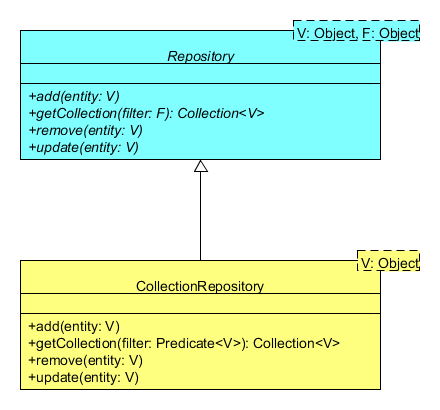
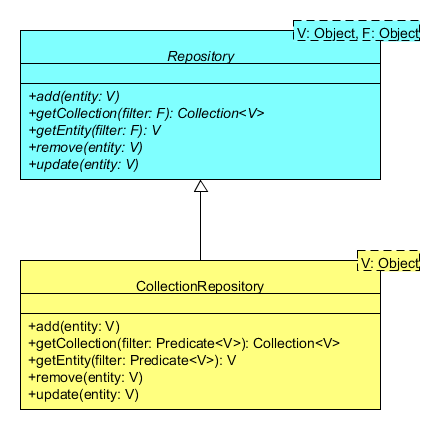
Added a method to the repository for getting a single entity.

Changed region(s): [[0.0295, 0.5561, 0.975, 0.9659], [0.0295, 0.1171, 0.8864, 0.4683], [0.0295, 0.0293, 0.975, 0.1171]]

diff --git a/src/main/java/com/wandrell/pattern/repository/Repository.java b/src/main/java/com/wandrell/pattern/repository/Repository.java
@@ -76,6 +76,29 @@ public interface Repository<V, F> {
     public Collection<V> getCollection(final F filter);
 
     /**
+     * Queries the entities in the repository and returns only one.
+     * <p>
+     * The collection is created filtering the stored data with the specified
+     * filter.
+     * <p>
+     * How this filter exactly work will depend on the implementation, it may be
+     * an structure containing information to build an SQL query, or may just be
+     * a predicate which the entities should validate.
+     * <p>
+     * Unlike {@link #getCollection(Object) getCollection}, which returns all
+     * the entities chosen by the filter, this method will return only one of
+     * them, usually the first.
+     * <p>
+     * If no entity is found, then {@code null} will be returned.
+     * 
+     * @param filter
+     *            the filter which discriminates the entities to be returned
+     * @return a single entity found by the filter, or {@code null} is no entity
+     *         is found
+     */
+    public V getEntity(final F filter);
+
+    /**
      * Removes an entity from the repository.
      * 
      * @param entity

diff --git a/src/test/java/com/wandrell/testing/pattern/test/unit/repository/TestCollectionRepository.java b/src/test/java/com/wandrell/testing/pattern/test/unit/repository/TestCollectionRepository.java
@@ -45,6 +45,7 @@ import com.wandrell.pattern.repository.Repository;
  * <li>Entities are updated correctly</li>
  * <li>Updating a non existing entity does not add it</li>
  * <li>The {@code getCollection} method filters the entities correctly</li>
+ * <li>The {@code getEntity} method filters the entities correctly</li>
  * <li>Modifying the {@code Collection} returned by {@code getCollection} does
  * not modify the repository's internal collection</li>
  * </ol>
@@ -172,6 +173,25 @@ public final class TestCollectionRepository {
             }
 
         }).size(), 3);
+    }
+
+    /**
+     * Test that the {@code getEntity} method filters the entities correctly.
+     */
+    @Test
+    public final void testGetEntity_Filter_Filters() {
+        final String entity; // Filtered entity
+
+        entity = repository.getEntity(new Predicate<String>() {
+
+            @Override
+            final public boolean apply(final String entity) {
+                return entity.equals("b");
+            }
+
+        });
+
+        Assert.assertEquals(entity, "b");
     }
 
     /**

diff --git a/src/main/java/com/wandrell/pattern/repository/CollectionRepository.java b/src/main/java/com/wandrell/pattern/repository/CollectionRepository.java
@@ -53,9 +53,8 @@ public final class CollectionRepository<V> implements
     private final Collection<V> data;
 
     /**
-     * Constructs a {@code CollectionRepository}.
-     * 
-     * Will use a {@code LinkedList} as the collection.
+     * Constructs a {@code CollectionRepository} using a {@code LinkedList} as
+     * the {@code Collection}.
      */
     public CollectionRepository() {
         this(new LinkedList<V>());
@@ -93,6 +92,22 @@ public final class CollectionRepository<V> implements
         }
 
         return result;
+    }
+
+    @Override
+    public final V getEntity(final Predicate<V> filter) {
+        final Collection<V> entities;
+        final V entity;
+
+        entities = getCollection(filter);
+
+        if (entities.isEmpty()) {
+            entity = null;
+        } else {
+            entity = entities.iterator().next();
+        }
+
+        return entity;
     }
 
     @Override
